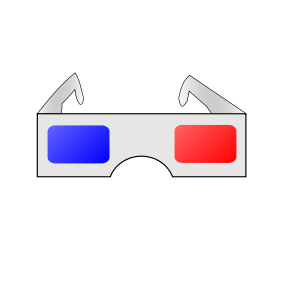
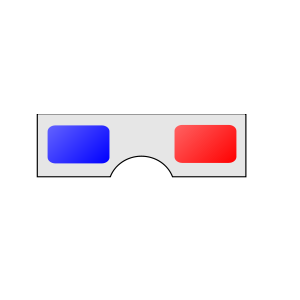
Transparent trim, flip rotate
* Cleaned up assets
* Added library to trim to fit all the excess transparency
* Flip horizontal by holding for 1 second

Changed region(s): [[0.12, 0.24, 0.81, 0.39]]

diff --git a/StickerCam/UIImage+Trim.m b/StickerCam/UIImage+Trim.m
@@ -1,0 +1,175 @@
+//
+//  UIImage+Trim.m
+//
+//  Created by Rick Pastoor on 26-09-12.
+//  Based on gist:3549921 ( https://gist.github.com/3549921/8abea8ac9e2450f6a38540de9724d3bf850a62df )
+//
+//  Copyright (c) 2012 Wrep - http://www.wrep.nl/
+//
+
+#import "UIImage+Trim.h"
+
+@implementation UIImage (Trim)
+
+/*
+ * Calculates the insets of transparency around all sides of the image
+ *
+ * @param fullyOpaque 
+ *        Whether the algorithm should consider pixels with an alpha value of something other than 255 as being transparent. Otherwise a non-zero value would be considered opaque.
+ */
+- (UIEdgeInsets)transparencyInsetsRequiringFullOpacity:(BOOL)fullyOpaque
+{
+	// Draw our image on that context
+	NSInteger width  = (NSInteger)CGImageGetWidth([self CGImage]);
+	NSInteger height = (NSInteger)CGImageGetHeight([self CGImage]);
+	NSInteger bytesPerRow = width * (NSInteger)sizeof(uint8_t);
+	
+	// Allocate array to hold alpha channel
+	uint8_t * bitmapData = calloc((size_t)(width * height), sizeof(uint8_t));
+	
+	// Create alpha-only bitmap context
+	CGContextRef contextRef = CGBitmapContextCreate(bitmapData, (NSUInteger)width, (NSUInteger)height, 8, (NSUInteger)bytesPerRow, NULL, kCGImageAlphaOnly);
+	
+	CGImageRef cgImage = self.CGImage;
+	CGRect rect = CGRectMake(0, 0, width, height);
+	CGContextDrawImage(contextRef, rect, cgImage);
+    
+	// Sum all non-transparent pixels in every row and every column
+	uint16_t * rowSum = calloc((size_t)height, sizeof(uint16_t));
+	uint16_t * colSum = calloc((size_t)width,  sizeof(uint16_t));
+	
+	// Enumerate through all pixels
+	for (NSInteger row = 0; row < height; row++) {
+		
+		for (NSInteger col = 0; col < width; col++) {
+			
+			if (fullyOpaque) {
+			
+				// Found non-transparent pixel
+				if (bitmapData[row*bytesPerRow + col] == UINT8_MAX) {
+					
+					rowSum[row]++;
+					colSum[col]++;
+					
+				}
+				
+			} else {
+				
+				// Found non-transparent pixel
+				if (bitmapData[row*bytesPerRow + col]) {
+					
+					rowSum[row]++;
+					colSum[col]++;
+					
+				}
+				
+			}
+			
+		}
+		
+	}
+	
+	// Initialize crop insets and enumerate cols/rows arrays until we find non-empty columns or row
+	UIEdgeInsets crop = UIEdgeInsetsZero;
+	
+    // Top
+	for (NSInteger i = 0; i < height; i++) {
+		
+		if (rowSum[i] > 0) {
+			
+			crop.top = i;
+            break;
+			
+		}
+		
+	}
+	
+    // Bottom
+	for (NSInteger i = height - 1; i >= 0; i--) {
+		
+		if (rowSum[i] > 0) {
+			crop.bottom = MAX(0, height - i - 1);
+            break;
+		}
+		
+	}
+	
+    // Left
+	for (NSInteger i = 0; i < width; i++) {
+		
+		if (colSum[i] > 0) {
+			crop.left = i;
+            break;
+		}
+		
+	}
+	
+    // Right
+	for (NSInteger i = width - 1; i >= 0; i--) {
+		
+		if (colSum[i] > 0) {
+			
+			crop.right = MAX(0, width - i - 1);
+            break;
+			
+		}
+	}
+	
+	free(bitmapData);
+	free(colSum);
+	free(rowSum);
+	
+    CGContextRelease(contextRef);
+	
+	return crop;
+}
+
+/*
+ * Original method signature; behavior should be identical.
+ */
+- (UIImage *)imageByTrimmingTransparentPixels
+{
+	return [self imageByTrimmingTransparentPixelsRequiringFullOpacity:NO];
+}
+
+/*
+ * Alternative method signature allowing for the use of cropping based on semi-transparency.
+ */
+- (UIImage *)imageByTrimmingTransparentPixelsRequiringFullOpacity:(BOOL)fullyOpaque
+{
+	if (self.size.height < 2 || self.size.width < 2) {
+		
+		return self;
+		
+	}
+	
+	CGRect rect = CGRectMake(0, 0, self.size.width * self.scale, self.size.height * self.scale);
+	UIEdgeInsets crop = [self transparencyInsetsRequiringFullOpacity:fullyOpaque];
+	
+    UIImage *img = self;
+    
+	if (crop.top == 0 && crop.bottom == 0 && crop.left == 0 && crop.right == 0) {
+		
+		// No cropping needed
+		
+	} else {
+		
+		// Calculate new crop bounds
+		rect.origin.x += crop.left;
+		rect.origin.y += crop.top;
+		rect.size.width -= crop.left + crop.right;
+		rect.size.height -= crop.top + crop.bottom;
+		
+		// Crop it
+		CGImageRef newImage = CGImageCreateWithImageInRect([self CGImage], rect);
+		
+		// Convert back to UIImage
+        img = [UIImage imageWithCGImage:newImage scale:self.scale orientation:self.imageOrientation];
+        
+        CGImageRelease(newImage);
+	}
+    
+    return img;
+}
+
+@end

diff --git a/StickerCam/CanvasViewController.m b/StickerCam/CanvasViewController.m
@@ -8,6 +8,7 @@
 
 #import "CanvasViewController.h"
 #import "ShareViewController.h"
+#import "UIImage+Trim.h"
 
 @interface CanvasViewController ()
 @property (strong, nonatomic) NSTimer *tapTimer;
@@ -135,13 +136,14 @@
 }
 
 - (IBAction)onTrayAssetTap:(UITapGestureRecognizer *)recognizer {
-    static UIImageView *imageView;
     UICollectionView *collectionView = (UICollectionView *)recognizer.view.superview;
     UICollectionViewCell *collectionViewCell = (UICollectionViewCell *)recognizer.view;
     UIImageView *pImageView =  (UIImageView *)collectionViewCell.backgroundView;
-    imageView = [[UIImageView alloc] initWithFrame:pImageView.frame];
+    UIImage *croppedImage = [pImageView.image imageByTrimmingTransparentPixels];
+    UIImageView *imageView;
+    imageView = [[UIImageView alloc] initWithFrame:CGRectMake(pImageView.frame.origin.x, pImageView.frame.origin.x, 75, (croppedImage.size.height/croppedImage.size.width) * 75)];
     imageView.userInteractionEnabled = YES;
-    imageView.image = pImageView.image;
+    [imageView setImage:croppedImage];
     imageView.center = CGPointMake(recognizer.view.center.x, recognizer.view.center.y + self.trayView.frame.origin.y + self.scrollView.frame.origin.y - collectionView.contentOffset.y);
     [self.view addSubview:imageView];
     
@@ -181,9 +183,11 @@
 - (IBAction)onStickerPan:(UILongPressGestureRecognizer *)recognizer {
     static CGPoint originalCenter;
     static CGPoint originalLocationInView;
+    static NSTimer *longFlipTimer;
     
     if (recognizer.state == UIGestureRecognizerStateBegan) {
         // If no timer exists, set one, then invalidate it once it's complete, otherwise we know it's a doule tap and we remove this view
+        longFlipTimer = [NSTimer scheduledTimerWithTimeInterval:1 target:self selector:@selector(flipHorizontal:) userInfo:recognizer.view repeats:NO];
         if (!self.tapTimer) {
             originalCenter = recognizer.view.center;
             originalLocationInView = [recognizer locationInView:self.view];
@@ -203,6 +207,7 @@
             }];
         }
     } else if (recognizer.state == UIGestureRecognizerStateChanged) {
+        [longFlipTimer invalidate];
         CGPoint point = [recognizer locationInView:self.view];
         // We calculate the delta moved from initial the touch point to where it is now and add that to the original center of the image
         recognizer.view.center = CGPointMake((point.x - originalLocationInView.x) + originalCenter.x, (point.y - originalLocationInView.y) + originalCenter.y);
@@ -213,6 +218,8 @@
                 recognizer.view.center = originalCenter;
             }];
         }
+        
+        [longFlipTimer invalidate];
     }
 }
 
@@ -278,6 +285,13 @@
 - (void)tapTimerEnd:(NSTimer *)timer {
     [self.tapTimer invalidate];
     self.tapTimer = nil;
+}
+
+- (void)flipHorizontal:(NSTimer *)timer {
+    UIImageView *view = (UIImageView *)timer.userInfo;
+    [UIView animateWithDuration:.25 animations:^{
+        view.transform = CGAffineTransformScale(view.transform, -1, 1);
+    }];
 }
 
 - (BOOL)gestureRecognizer:(UIGestureRecognizer *)gestureRecognizer shouldRecognizeSimultaneouslyWithGestureRecognizer:(UIGestureRecognizer *)otherGestureRecognizer {

diff --git a/StickerCam/UIImage+Trim.h b/StickerCam/UIImage+Trim.h
@@ -1,0 +1,18 @@
+//
+//  UIImage+Trim.h
+//
+//  Created by Rick Pastoor on 26-09-12.
+//  Based on gist:3549921 ( https://gist.github.com/3549921/8abea8ac9e2450f6a38540de9724d3bf850a62df )
+//
+//  Copyright (c) 2012 Wrep - http://www.wrep.nl/
+//
+
+#import <UIKit/UIKit.h>
+
+@interface UIImage (Trim)
+
+- (UIEdgeInsets)transparencyInsetsRequiringFullOpacity:(BOOL)fullyOpaque;
+- (UIImage *)imageByTrimmingTransparentPixels;
+- (UIImage *)imageByTrimmingTransparentPixelsRequiringFullOpacity:(BOOL)fullyOpaque;
+
+@end
